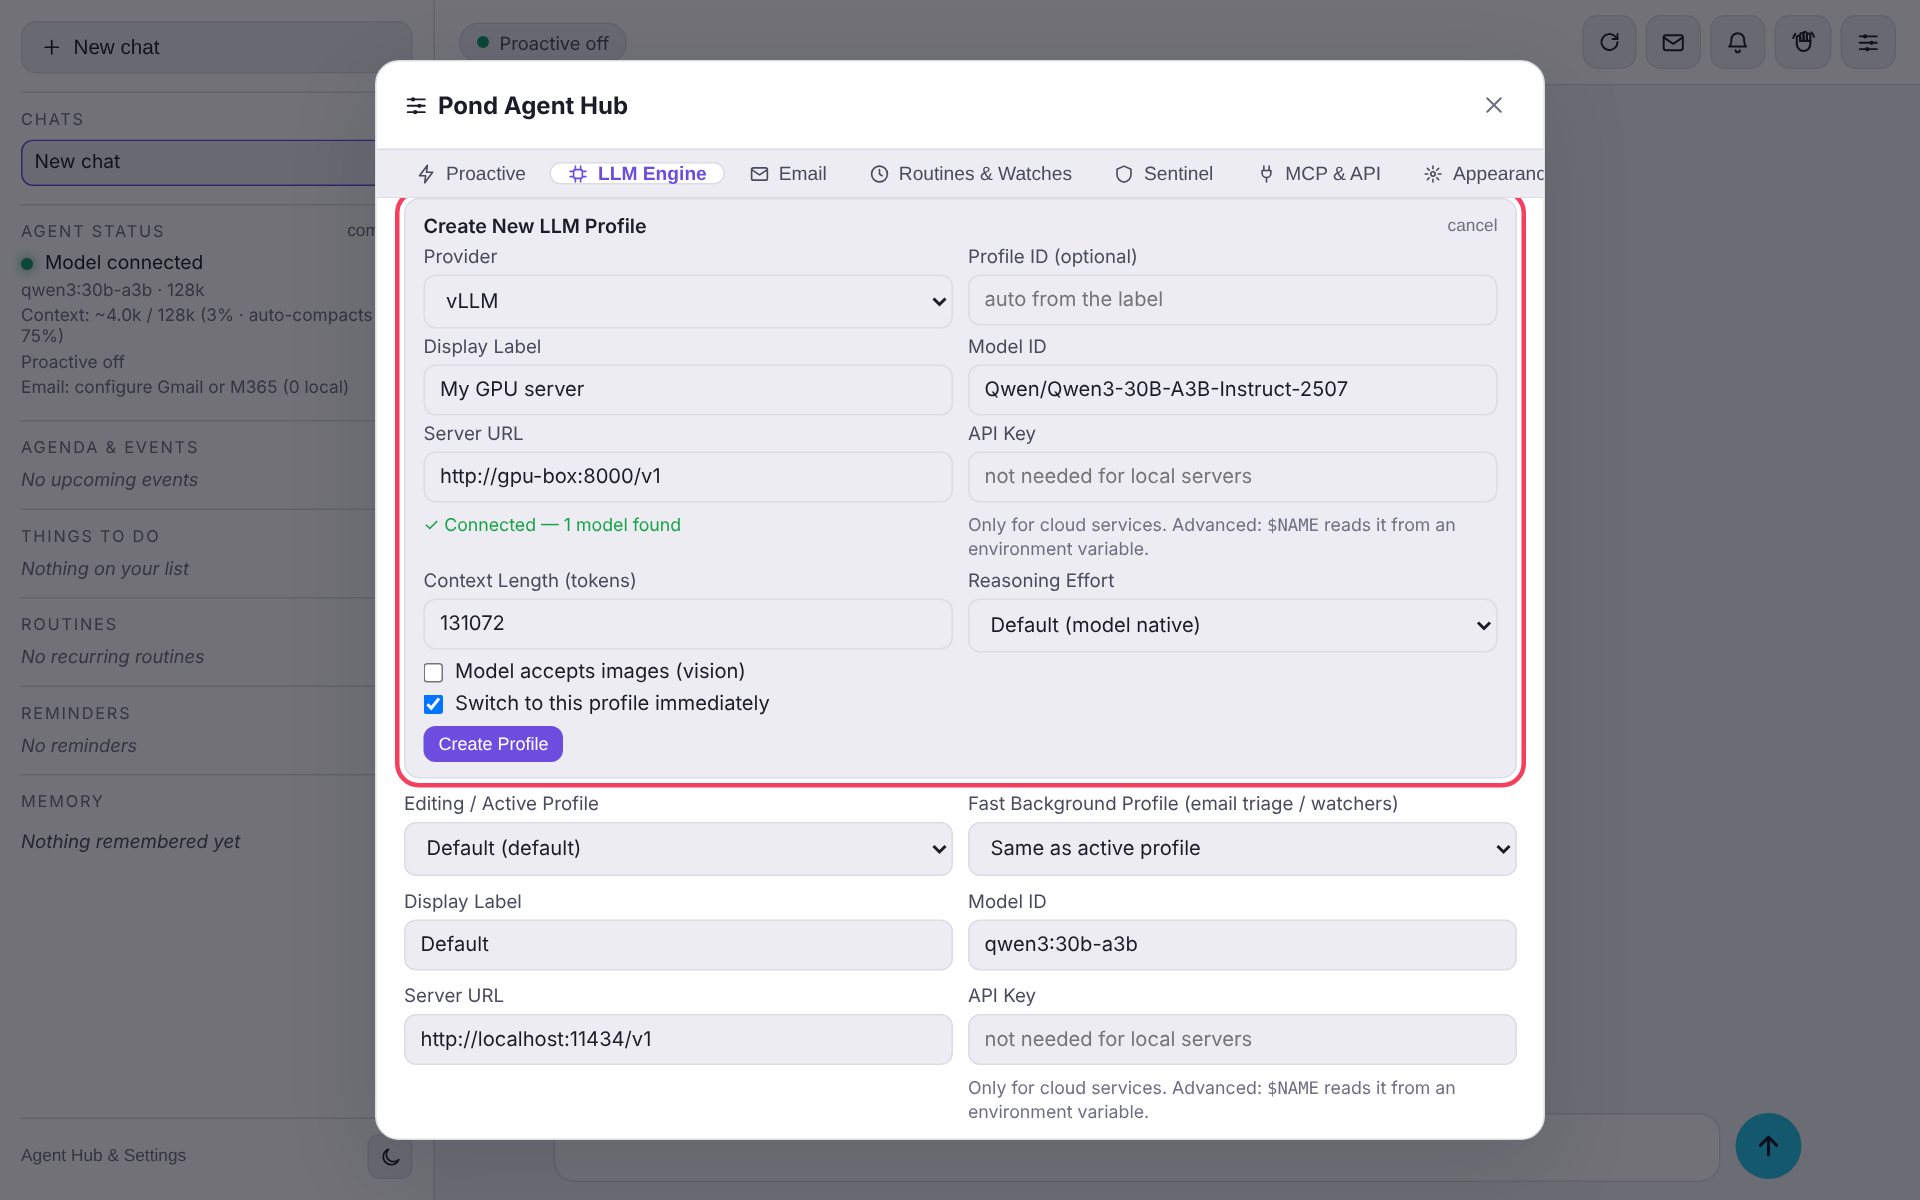
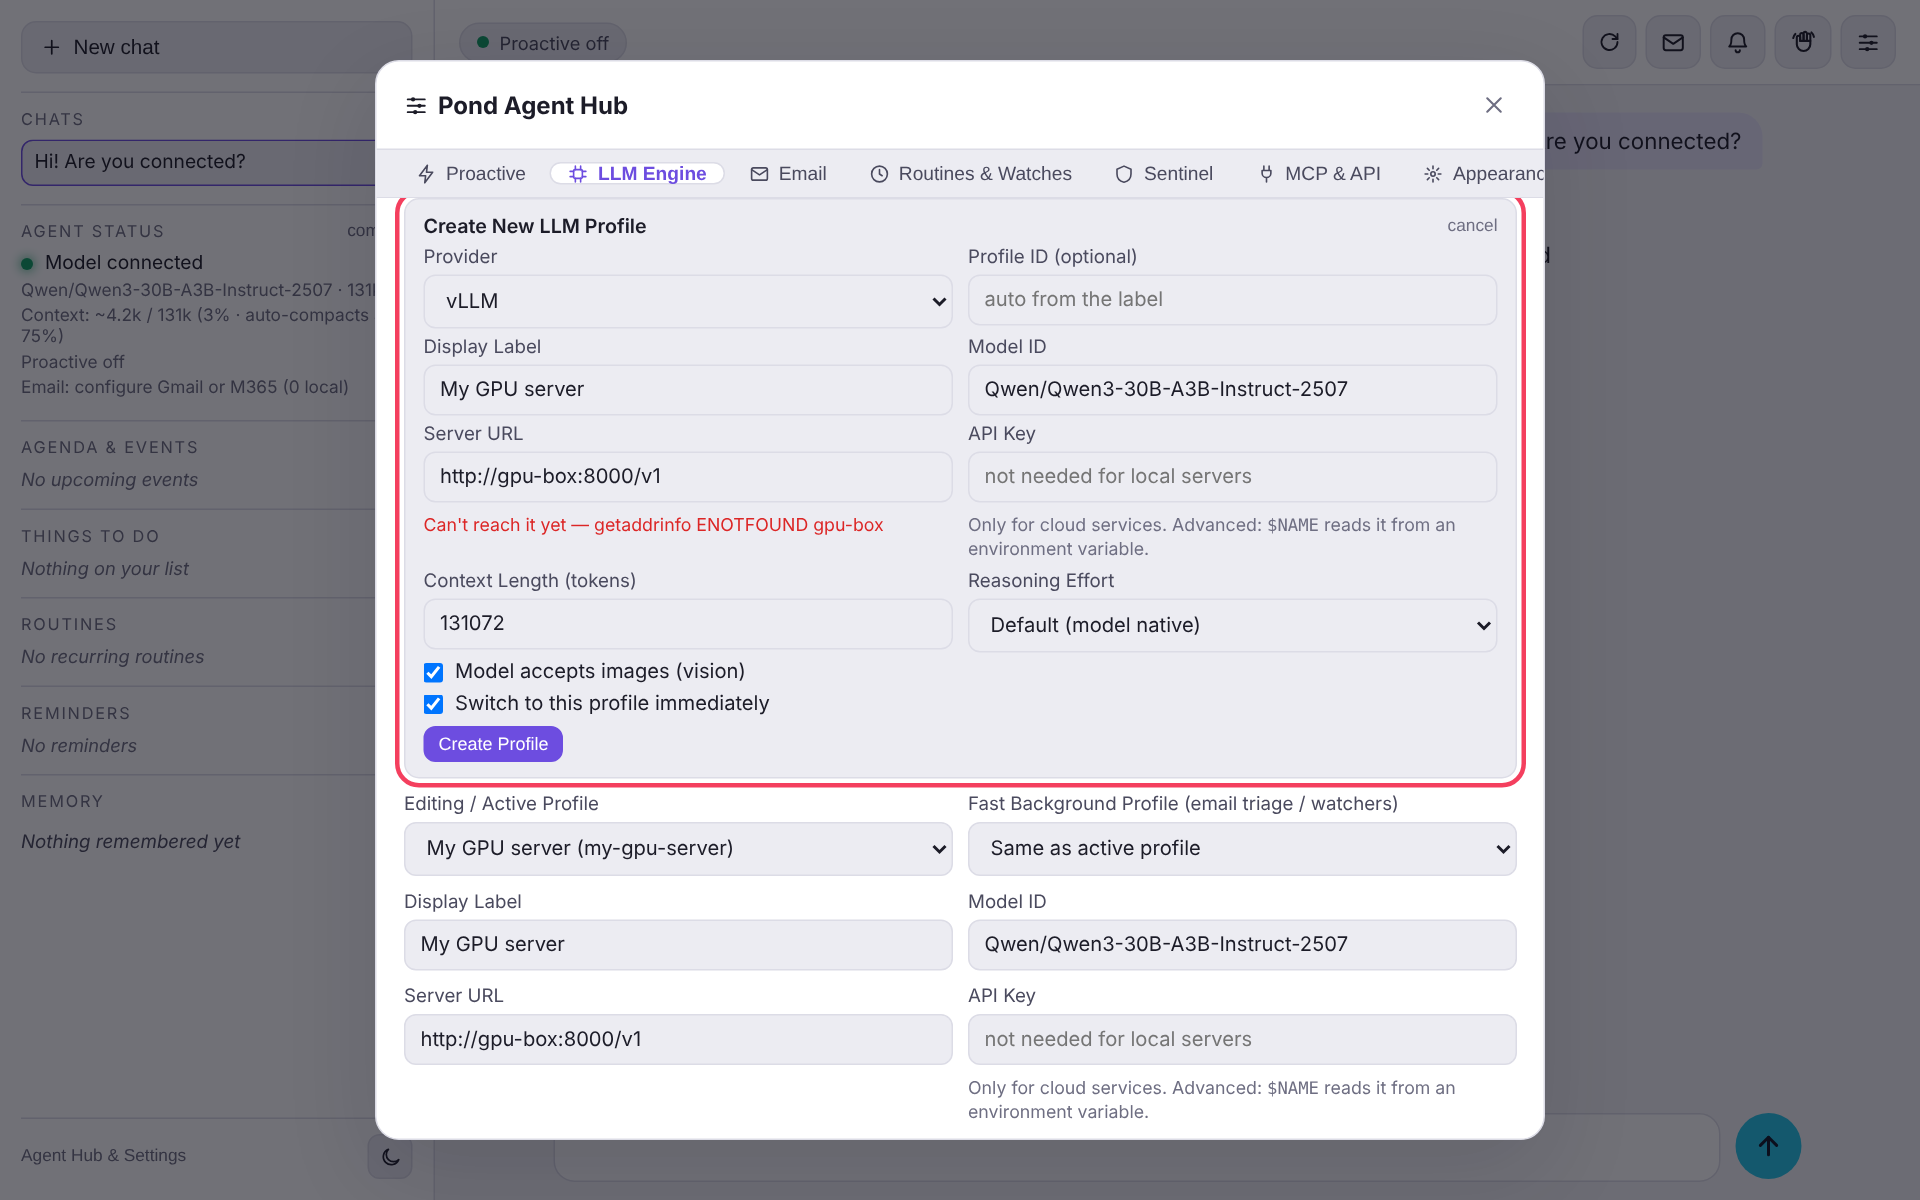
Setup guide: screenshot and text for images-on-by-default

diff --git a/docs/setup-llm.md b/docs/setup-llm.md
@@ -39,7 +39,7 @@ Open the **LLM Engine** tab and click **+ New Profile**.
 3. **Model ID** — pick one from the list (it's filled in for you if there's only one).
 4. **API Key** — leave it empty for local servers. Cloud services need their key.
 5. **Context Length** — the context size your server is configured for (e.g. vLLM `--max-model-len`).
-6. Tick **Model accepts images** if it's a vision model, so you can paste photos into the chat.
+6. **Model accepts images** is on by default (most current models can see images) — untick it for a text-only model.
 7. Click **Create Profile**.
 
 ![New profile](images/setup-llm/03-new-profile.png)
